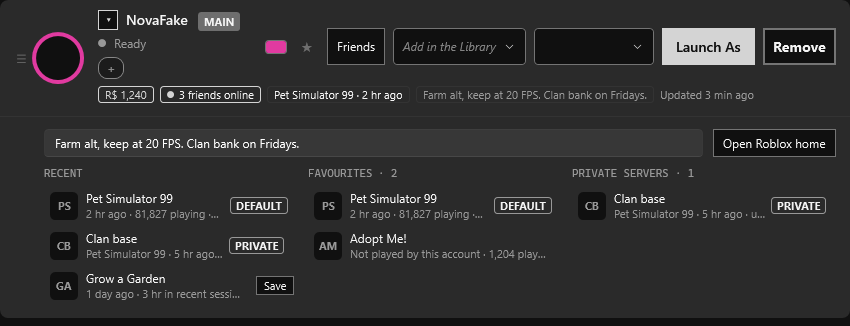
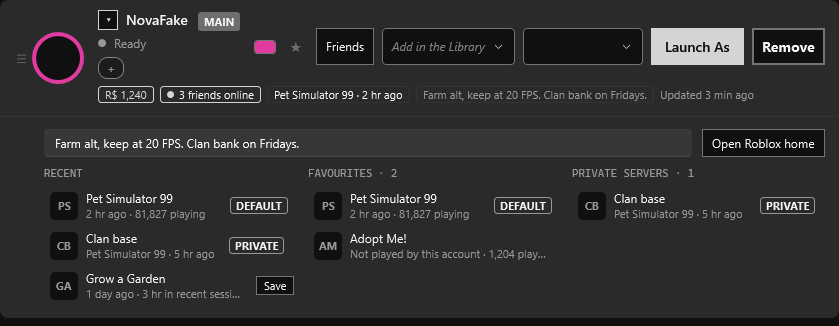
feat(feeds): the account panel shows the player count only
Este's ruling after the measurement (2026-11-26): a panel entry's meta line
carries the count ("2 hr ago · 81,827 playing") and no date, as the grid tile
does for pick C3. The date, "updated 2 days ago", moves to the entry's tooltip
(name, meta line, updated) and its accessible name ("Launch {name}, {meta} ·
updated ..."). A private server shows no pulse on its meta line at all; its
date is in the tooltip and the accessible name. The Library tile and list row
are untouched.

PanelEntry gains PulseCountText and PulseUpdatedText and loses PulseText, which
nothing drew once the line took the count alone. Item 12's tests that asserted
the joined line in the panel now assert the count on the meta line, no "updated"
on it, and the date in the tooltip and the accessible name; the Library-and-panel
one-reading test compares the two halves.

Measured (LabelWrapMeasurementTests, brand, the three entries that carry a
count, entries that still trim of 3): en 1, de 3, es 1, fr 0, pl 0, pt-BR 1,
ru 0. Before, with the joined line, 5 pulse texts of 5 trimmed in every language.
The private server's "game name · age" no longer trims in any language. What is
left is the "Not played by this account" line in en, de, es, pt-BR and the
"0 playing" line in de, all still carried in full by the tooltip and the name.
The measurement now counts only entries that carry a count.

Mutation check, seen red then reverted: AccessibleName built from the meta line
[…]

diff --git a/src/ROROROblox.Tests/Library/PulseSurfacesTests.cs b/src/ROROROblox.Tests/Library/PulseSurfacesTests.cs
@@ -138,20 +138,28 @@ public class PulseSurfacesTests
         panel.Expand();
         var before = panel.Favourites.ToList();
         Assert.All(before, e => Assert.Null(e.Pulse));
-        Assert.Equal(string.Empty, before[0].PulseText);
+        Assert.Equal(string.Empty, before[0].PulseCountText);
+        Assert.Equal(string.Empty, before[0].PulseUpdatedText);
 
         rig.Settle();
         var after = panel.Favourites.ToList();
 
         Assert.Equal(2, after.Count);
         Assert.Equal(81_827, after[0].Pulse!.Value.Playing);
-        Assert.Equal("81,827 playing · updated 2 days ago", after[0].PulseText);
-        Assert.EndsWith("81,827 playing · updated 2 days ago", after[0].MetaText);
-        Assert.Contains("81,827 playing · updated 2 days ago", after[0].TooltipText);
-        Assert.Contains("81,827 playing · updated 2 days ago", after[0].AccessibleName);
+        Assert.Equal("81,827 playing", after[0].PulseCountText);
+        Assert.Equal("updated 2 days ago", after[0].PulseUpdatedText);
+        // The meta line carries the count only (Este, 2026-11-26); the date is the tooltip's and the accessible name's.
+        Assert.EndsWith("81,827 playing", after[0].MetaText);
+        Assert.DoesNotContain("updated", after[0].MetaText);
+        Assert.Equal(["Alpha Fake", after[0].MetaText, "updated 2 days ago"], after[0].TooltipText.Split("\n"));
+        Assert.Contains("Alpha Fake", after[0].AccessibleName);
+        Assert.Contains("81,827 playing", after[0].AccessibleName);
+        Assert.EndsWith("updated 2 days ago", after[0].AccessibleName);
         Assert.Same(before[1], after[1]);   // Beta Fake is a game Roblox no longer returns: untouched, no line
         Assert.Null(after[1].Pulse);
-        Assert.Equal(string.Empty, after[1].PulseText);
+        Assert.Equal(string.Empty, after[1].PulseCountText);
+        Assert.Equal(string.Empty, after[1].PulseUpdatedText);
+        Assert.Equal(["Beta Fake", after[1].MetaText], after[1].TooltipText.Split("\n"));
     }
 
     [Fact]
@@ -172,9 +180,13 @@ public class PulseSurfacesTests
         rig.Settle();
 
         var entry = Assert.Single(panel.PrivateServers);
-        Assert.Equal("updated 2 days ago", entry.PulseText);
+        Assert.Equal(string.Empty, entry.PulseCountText);
+        Assert.Equal("updated 2 days ago", entry.PulseUpdatedText);
+        // No pulse on the meta line at all; the date is in the tooltip and the accessible name.
         Assert.DoesNotContain("playing", entry.MetaText);
-        Assert.EndsWith("updated 2 days ago", entry.MetaText);
+        Assert.DoesNotContain("updated", entry.MetaText);
+        Assert.EndsWith("updated 2 days ago", entry.TooltipText);
+        Assert.EndsWith("updated 2 days ago", entry.AccessibleName);
     }
 
     [Fact]
@@ -185,12 +197,14 @@ public class PulseSurfacesTests
         var panel = Panel([Game(1, "Alpha Fake", 10)], rig.Service);
         panel.Expand();
         rig.Settle();
-        Assert.NotEqual(string.Empty, panel.Favourites[0].PulseText);
+        Assert.NotEqual(string.Empty, panel.Favourites[0].PulseCountText);
+        Assert.NotEqual(string.Empty, panel.Favourites[0].PulseUpdatedText);
 
         rig.Service.SetEnabled(false);
 
         Assert.Single(panel.Favourites);
-        Assert.Equal(string.Empty, panel.Favourites[0].PulseText);
+        Assert.Equal(string.Empty, panel.Favourites[0].PulseCountText);
+        Assert.Equal(string.Empty, panel.Favourites[0].PulseUpdatedText);
     }
 
     [Fact]
@@ -231,7 +245,9 @@ public class PulseSurfacesTests
         rig.Settle();
 
         Assert.Single(rig.Api.Requests);   // two surfaces, one game, one question
-        Assert.Equal(item.PulseText, Assert.Single(panel.Favourites).PulseText);
+        var entry = Assert.Single(panel.Favourites);
+        Assert.Equal(item.PulseCountText, entry.PulseCountText);
+        Assert.Equal(item.PulseUpdatedText, entry.PulseUpdatedText);
         Assert.Equal("81,827 playing · updated 2 days ago", item.PulseText);
     }
 

diff --git a/src/ROROROblox.App/ViewModels/AccountPanelViewModel.cs b/src/ROROROblox.App/ViewModels/AccountPanelViewModel.cs
@@ -78,14 +78,17 @@ public sealed record PanelEntry(
     /// <summary>The inline Save affordance: an unsaved Recent entry that can be launched (so it has a public place to save).</summary>
     public bool ShowSave => !IsSaved && CanLaunch;
 
-    /// <summary>The pulse's words ("81,827 playing · updated 2 days ago"), a private server's date alone, or empty until an answer arrives.</summary>
-    public string PulseText => PulseWords.Joined(Pulse, IsPrivate);
+    /// <summary>"81,827 playing". The only part of the pulse on the meta line: the panel column is narrow, and the date goes to the tooltip and the accessible name (Este, 2026-11-26, as the grid tile does). Empty without a count and for a private server.</summary>
+    public string PulseCountText => PulseWords.Count(Pulse, IsPrivate);
+
+    /// <summary>"updated 2 days ago", or empty without a date. Tooltip and accessible name only.</summary>
+    public string PulseUpdatedText => PulseWords.Updated(Pulse);
 
     /// <summary>
     /// The second line: how long ago THIS account last played it, then (Recent only) the time it spent
     /// there "in recent sessions" (the window is 100 history rows, not all time); a saved entry this
     /// account never launched says so. A private server leads with its game when the icon cache knows it.
-    /// The game's pulse is one more part, last, joined the same way.
+    /// The game's player count is one more part, last, joined the same way; the date is not on this line.
     /// </summary>
     public string MetaText
     {
@@ -96,16 +99,22 @@ public sealed record PanelEntry(
             parts.Add(LastPlayedUtc is { } at ? ROROROblox.App.ViewModels.AccountSummary.RelativeAgo(at) : Loc.Get("Shell_Panel_Meta_NotPlayed"));
             if (Entry.Kind == LibraryEntryKind.Recent && TotalPlayed is { } total && total > TimeSpan.Zero)
                 parts.Add(Loc.Format("Shell_Panel_Meta_InRecent", FormatDuration(total)));
-            if (PulseText is { Length: > 0 } pulse) parts.Add(pulse);
+            if (PulseCountText is { Length: > 0 } count) parts.Add(count);
             return string.Join(" · ", parts);
         }
     }
 
-    /// <summary>Tooltip: the full name over the full meta line, for the day the column trims either with an ellipsis; a disabled entry adds why.</summary>
-    public string TooltipText => DisplayName + "\n" + MetaText + (CanLaunch ? string.Empty : "\n" + DisabledHint);
+    /// <summary>The meta line and then the game's last update: what the tooltip and the accessible name say, since the date is not drawn.</summary>
+    private string FullMetaText => PulseUpdatedText is { Length: > 0 } updated ? MetaText + " · " + updated : MetaText;
 
-    /// <summary>Accessible name of the entry's launch button: the full name and meta, never the trimmed text.</summary>
-    public string AccessibleName => Loc.Format("Shell_Panel_Entry_Name", DisplayName, MetaText);
+    /// <summary>Tooltip: the full name over the full meta line, then the date the game was updated; a disabled entry adds why.</summary>
+    public string TooltipText
+        => DisplayName + "\n" + MetaText
+           + (PulseUpdatedText is { Length: > 0 } updated ? "\n" + updated : string.Empty)
+           + (CanLaunch ? string.Empty : "\n" + DisabledHint);
+
+    /// <summary>Accessible name of the entry's launch button: the full name, meta, players and updated, never the trimmed text.</summary>
+    public string AccessibleName => Loc.Format("Shell_Panel_Entry_Name", DisplayName, FullMetaText);
 
     /// <summary>Accessible name of the inline Save button.</summary>
     public string SaveAccessibleName => Loc.Format("Shell_Panel_Save_Name", DisplayName);

diff --git a/src/ROROROblox.Tests/Rendering/LabelWrapMeasurementTests.cs b/src/ROROROblox.Tests/Rendering/LabelWrapMeasurementTests.cs
@@ -927,7 +927,7 @@ public class LabelWrapMeasurementTests
                     {
                         var child = VisualTreeHelper.GetChild(node, i);
                         if (child is TextBlock tb && tb.Text.Length > 0 && PanelWindowFixtures.EffectivelyVisible(tb)
-                            && (tb.Name is "TilePulse" or "RowPulse" || (tb.DataContext is PanelEntry { Pulse: not null } pe && tb.Text == pe.MetaText)))
+                            && (tb.Name is "TilePulse" or "RowPulse" || (tb.DataContext is PanelEntry { PulseCountText.Length: > 0 } pe && tb.Text == pe.MetaText)))
                         {
                             var clone = Clone(tb);
                             clone.Measure(new Size(double.PositiveInfinity, double.PositiveInfinity));
@@ -951,7 +951,7 @@ public class LabelWrapMeasurementTests
     /// <summary>
     /// Every label the pulse adds, in every language: the tile's count line and the row's joined line must not clip and
     /// must stay within two lines; nothing may be exempted for them, because a count that reads "81,8…" is a wrong
-    /// number. The panel entry's meta line is the one place a trim is the established behaviour (the full text is the
+    /// number. The panel entry's meta line (the count only, since 2026-11-26; the date is the tooltip's) is the one place a trim is the established behaviour (the full text is the
     /// tooltip and the accessible name), so its trims are measured and written, and counted, not failed.
     /// </summary>
     [WindowRenderFact]
